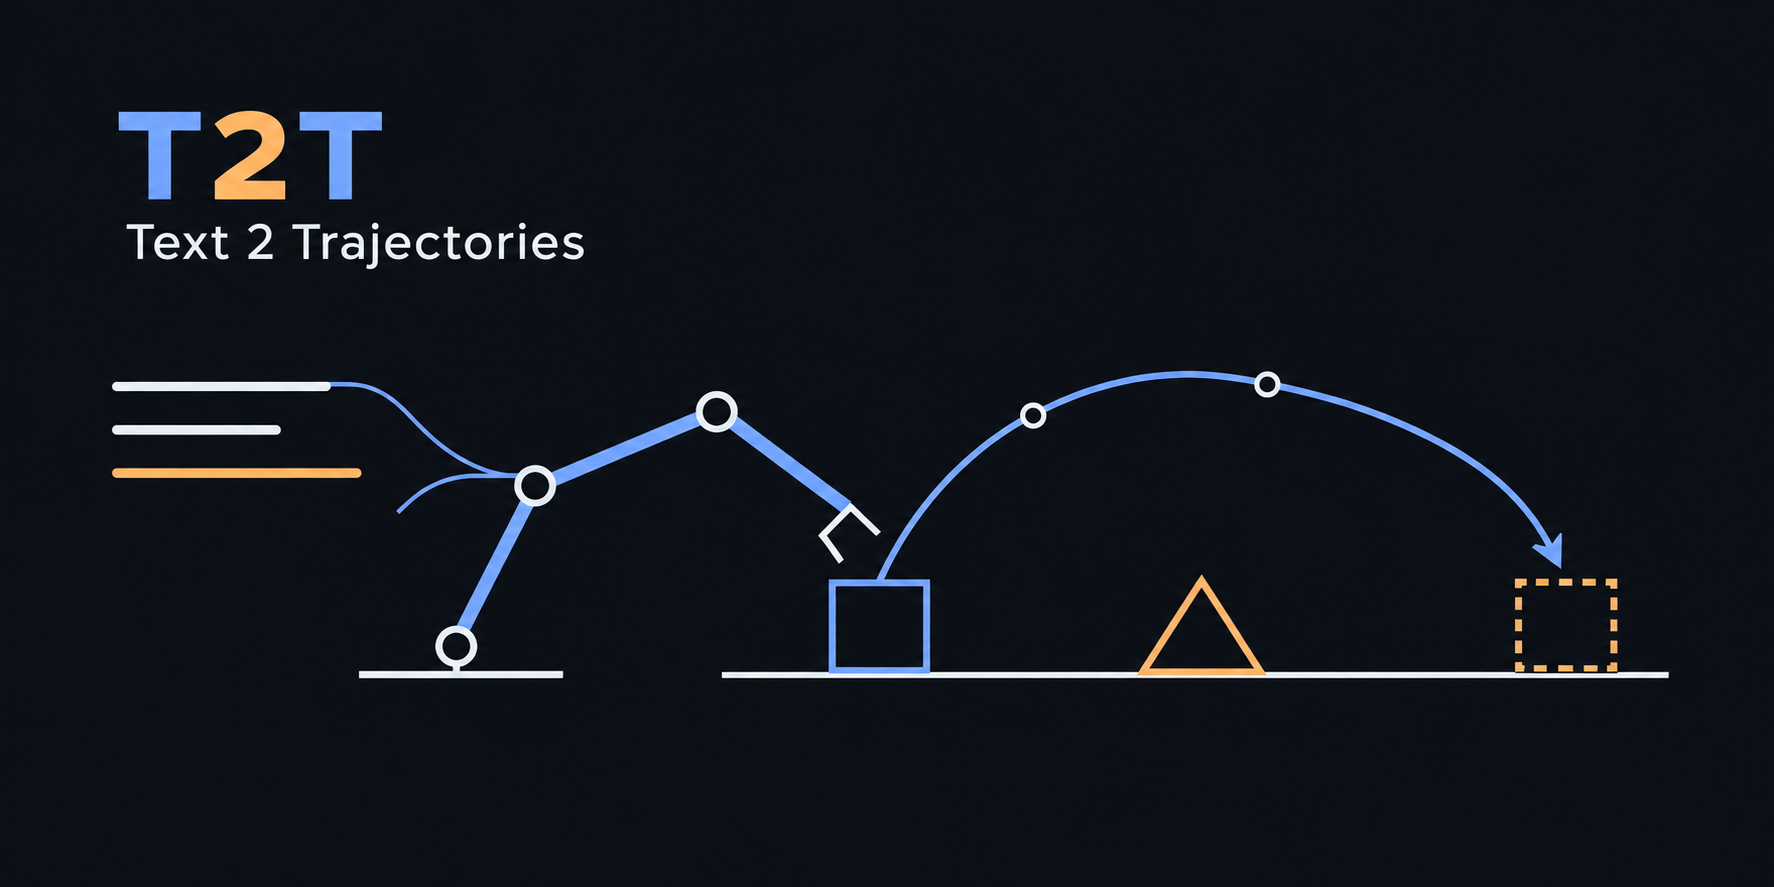
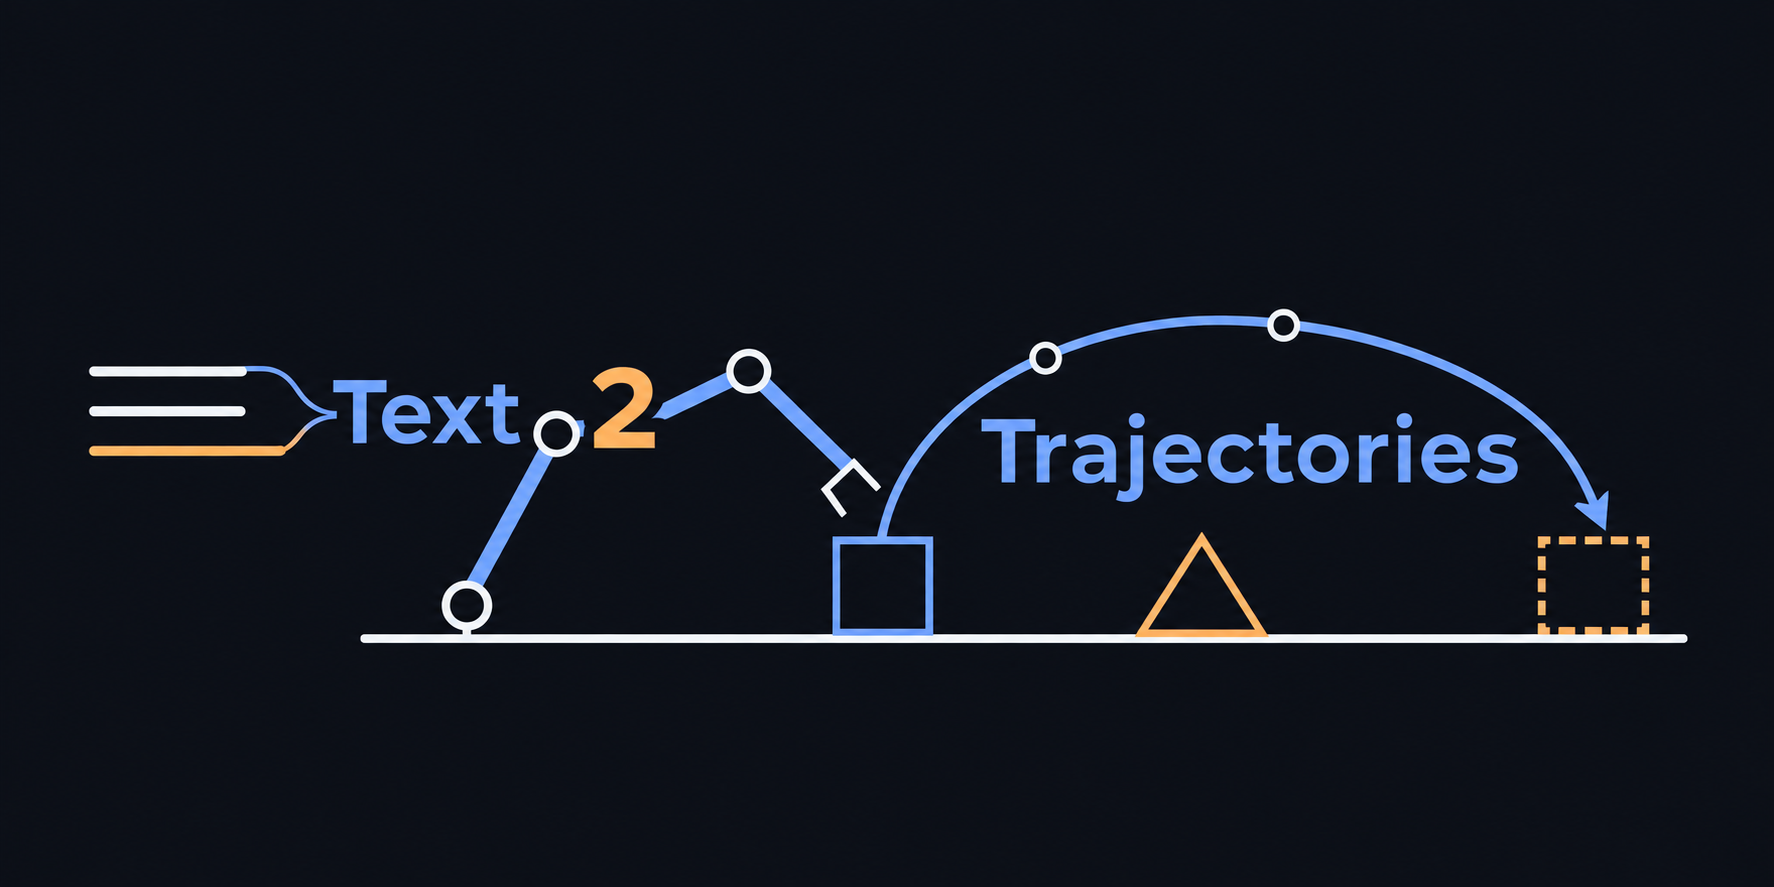
Integrate full project name into trajectory artwork

Changed region(s): [[0.031, 0.3348, 0.9611, 0.7914], [0.062, 0.1218, 0.341, 0.3044], [0.217, 0.5479, 0.248, 0.5784]]

diff --git a/README.md b/README.md
@@ -1,4 +1,4 @@
-![T2T — Text 2 Trajectories](assets/banner.png)
+![Text 2 Trajectories](assets/banner.png)
 
 # Text 2 Trajectories
 
